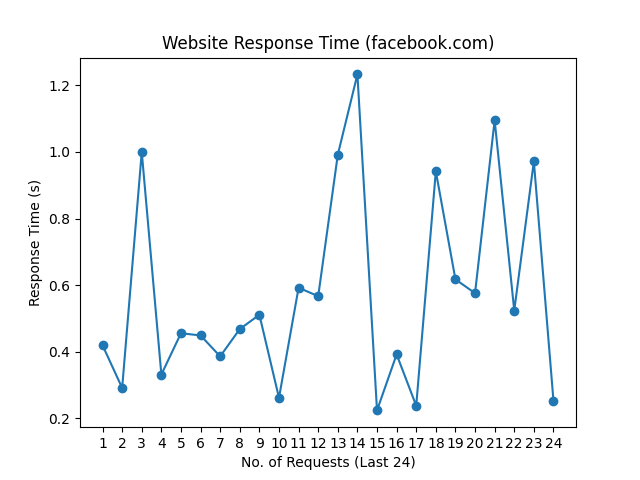
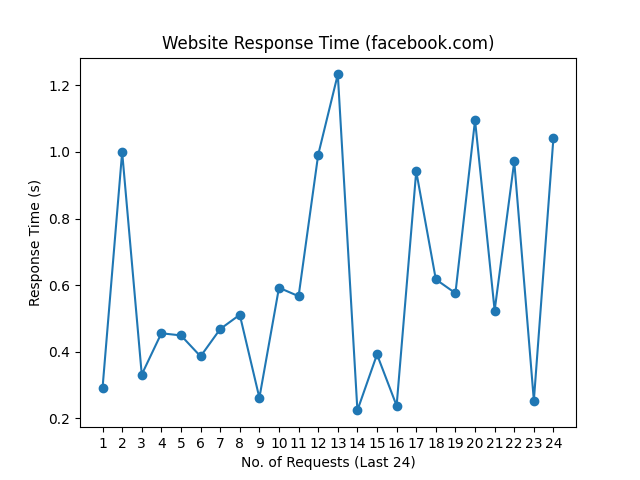
update README.md, history and graph

Changed region(s): [[0.1562, 0.125, 0.875, 0.875]]

diff --git a/README.md b/README.md
@@ -1,10 +1,10 @@
 # Web Monitoring
 
-Last Checked: 18/05/2024 08:15
+Last Checked: 19/05/2024 08:18
 
 | Website | Response Time (s) | Status | Avg Uptime (%) |
 |---------|-------------------|--------|----------------|
 | www.thiswebsiteisdown.net | 0 <br> <img src="graph/thiswebsiteisdown.net.png" alt="Graph" width="200" height="200">  | ❌ Down | 0.00 |
-| www.netflix.com | 0.492096 <br> <img src="graph/netflix.com.png" alt="Graph" width="200" height="200">  | ✅ Up | 100.00 |
-| www.google.com | 0.233867 <br> <img src="graph/google.com.png" alt="Graph" width="200" height="200">  | ✅ Up | 100.00 |
-| www.facebook.com | 0.253444 <br> <img src="graph/facebook.com.png" alt="Graph" width="200" height="200">  | ✅ Up | 100.00 |
+| www.netflix.com | 0.989147 <br> <img src="graph/netflix.com.png" alt="Graph" width="200" height="200">  | ✅ Up | 100.00 |
+| www.google.com | 0.088416 <br> <img src="graph/google.com.png" alt="Graph" width="200" height="200">  | ✅ Up | 100.00 |
+| www.facebook.com | 1.043131 <br> <img src="graph/facebook.com.png" alt="Graph" width="200" height="200">  | ✅ Up | 100.00 |
